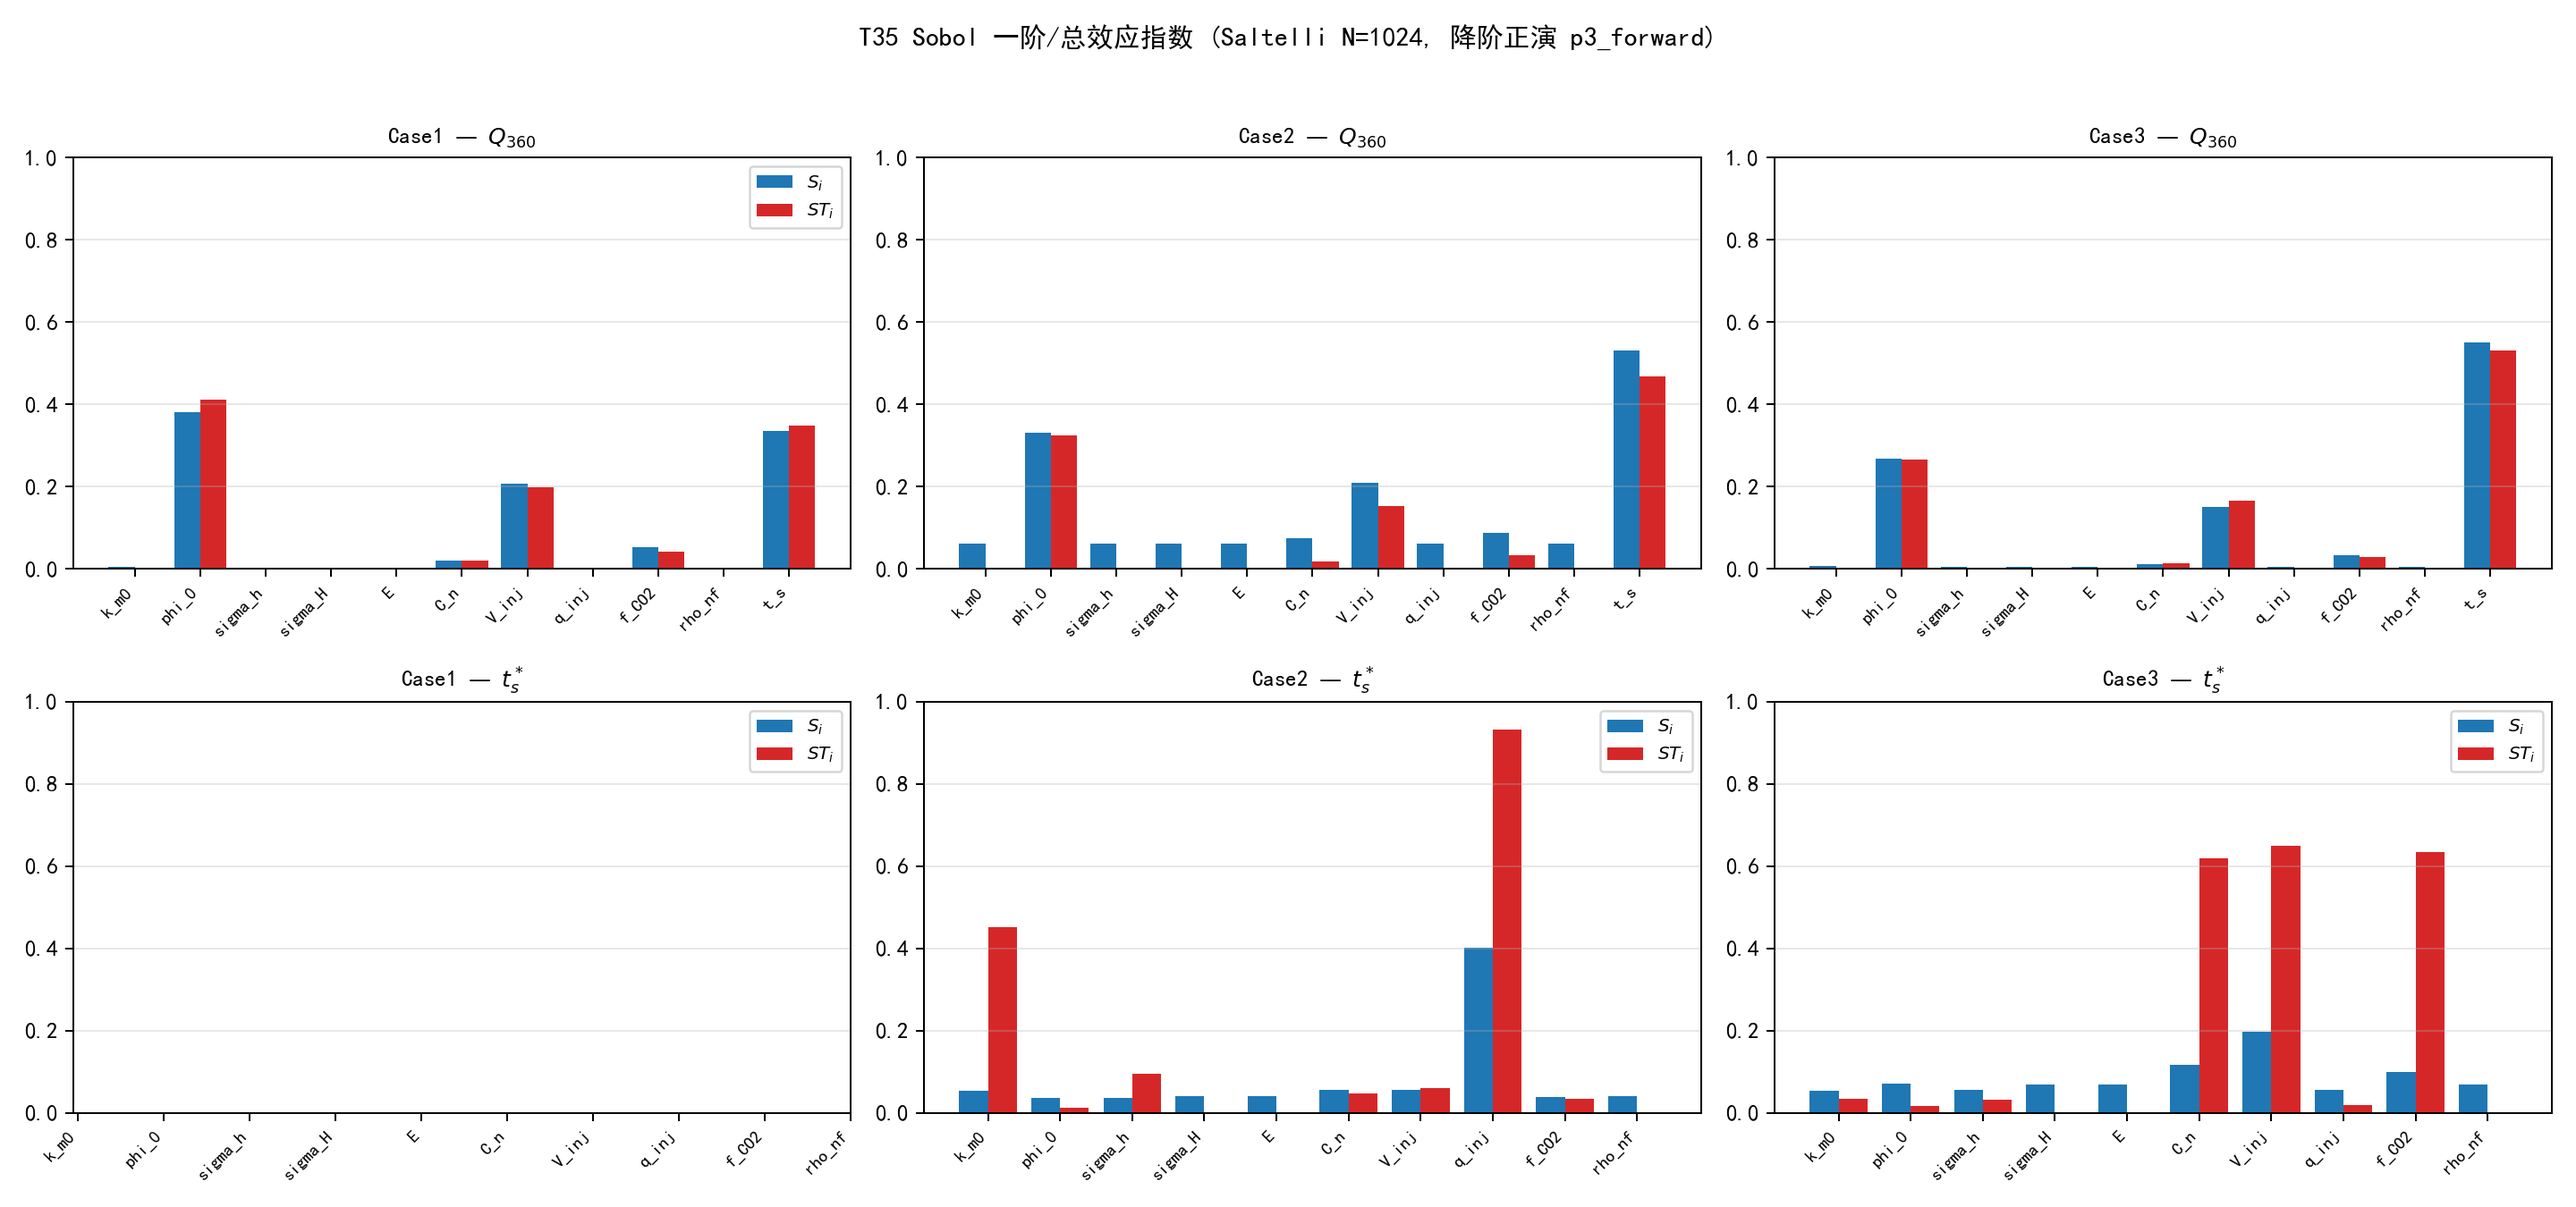
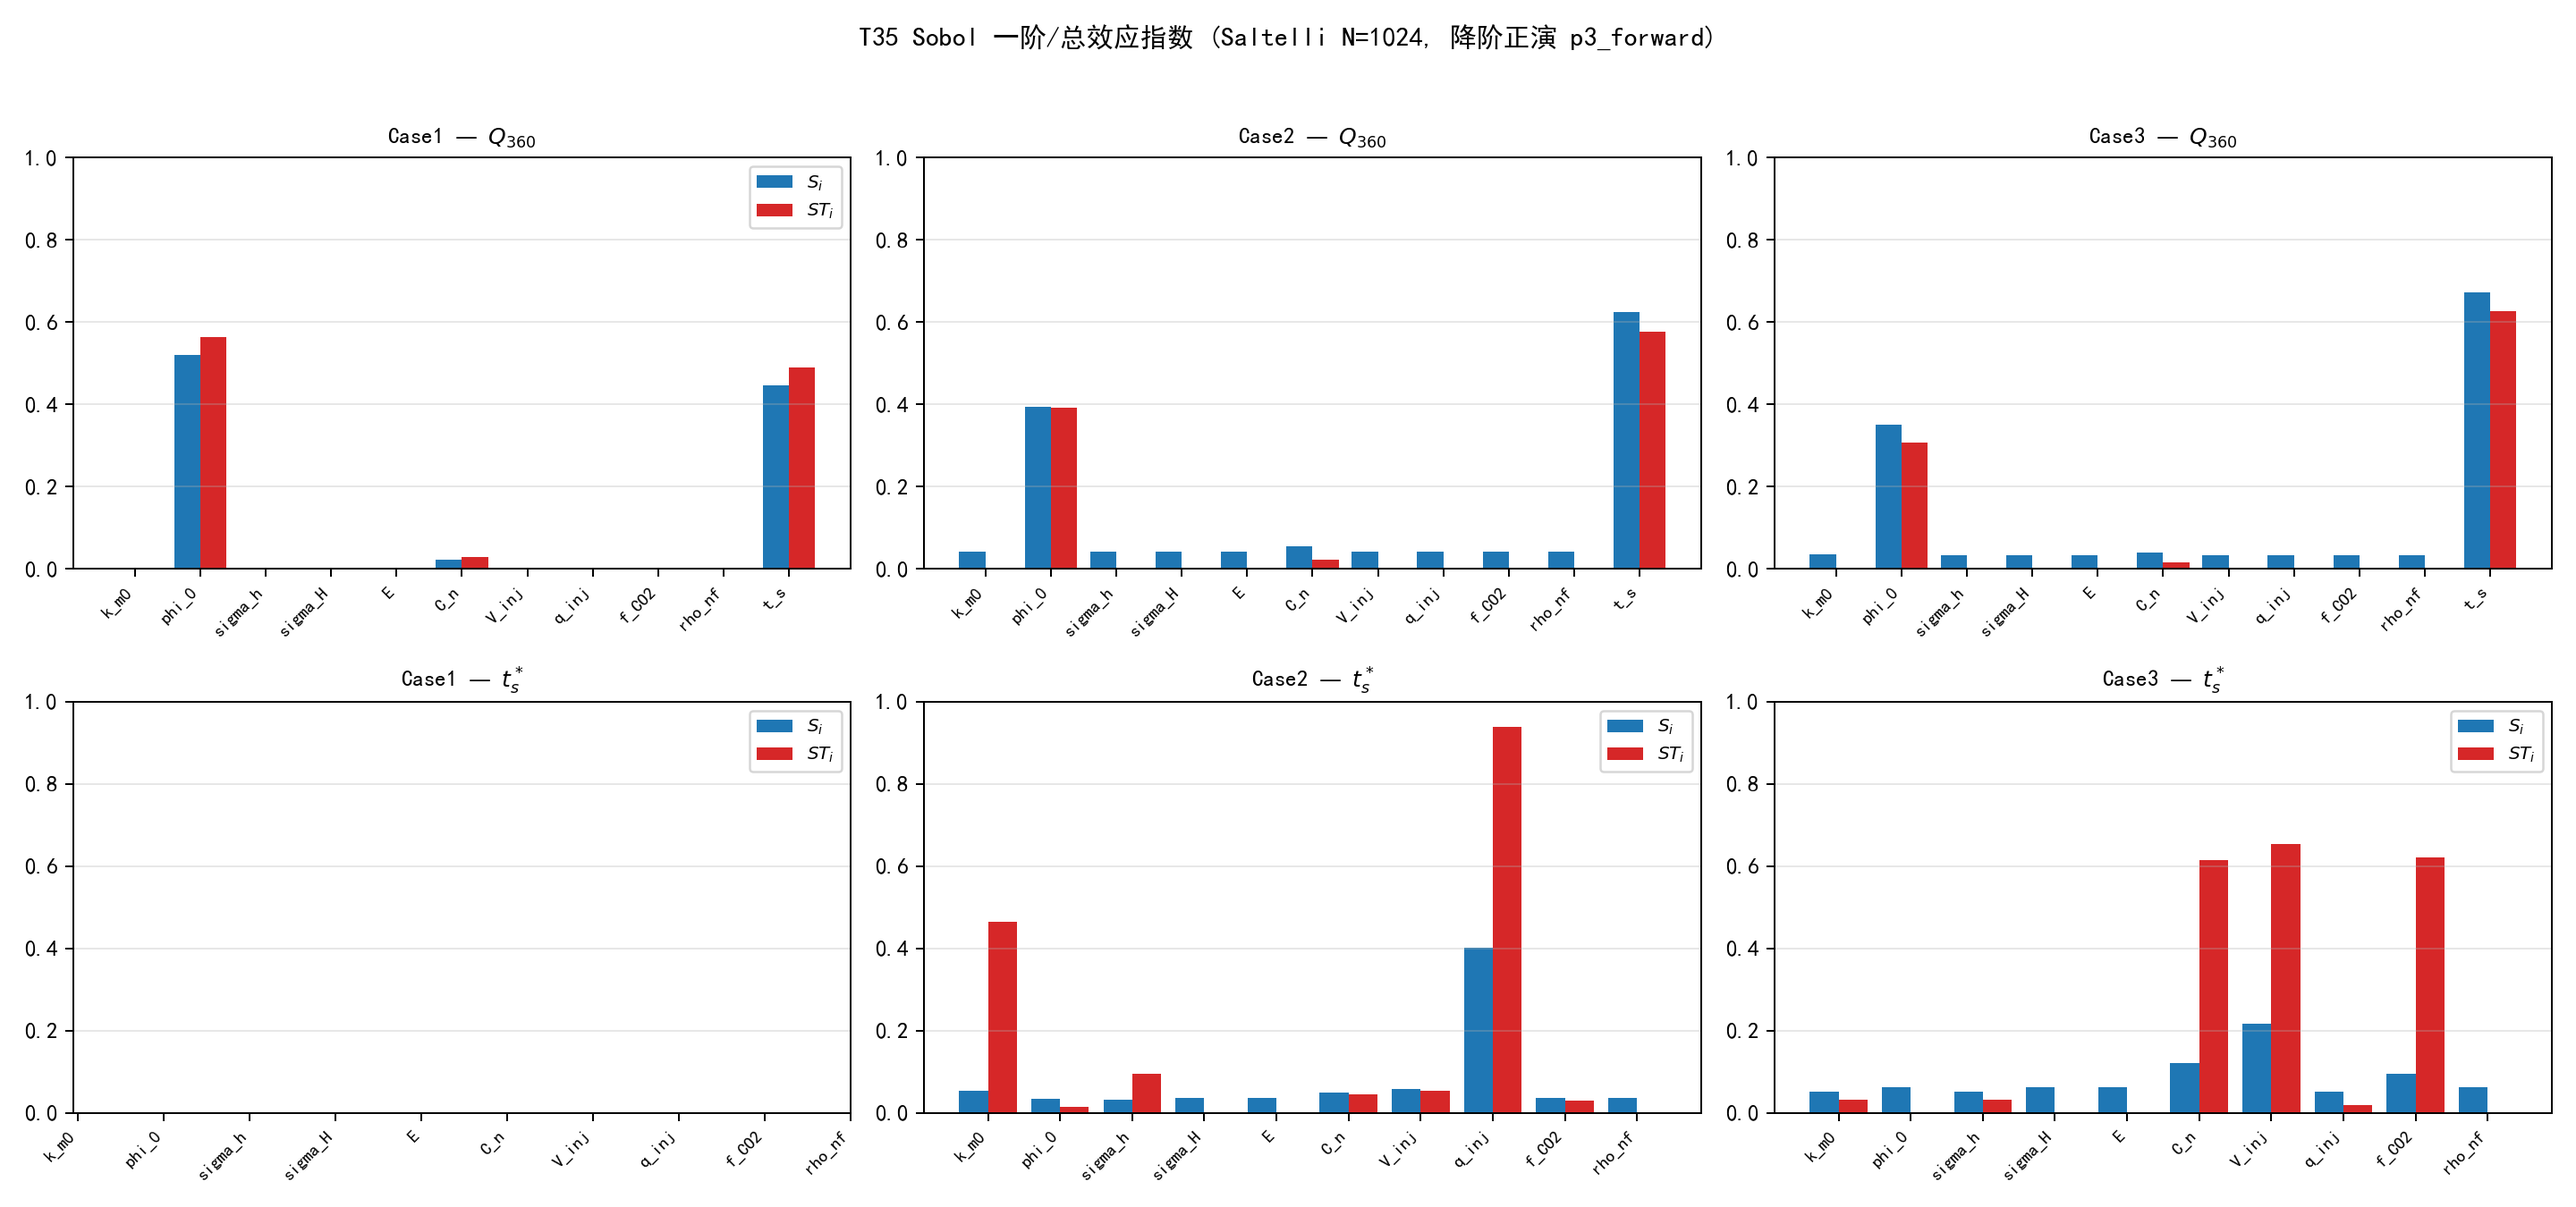
T35: 适配 T31 V/f≈0 重跑 Sobol; Q360 主控 t_s/phi0; ts* Case2=边界 Case3=经济; 复刻正演自动跟随 p3_forward 标定

diff --git a/02_代码/13_sobol_analysis.py b/02_代码/13_sobol_analysis.py
@@ -5,8 +5,8 @@ T35 全局敏感性分析（Sobol，Saltelli N=1024，含二阶指数）
 前置交付：sobol_lib.py 纯 numpy 实现 Saltelli (2010) 采样与估计量（替代 SALib），
 Ishigami 解析解自检通过后进入正题。
 
-正演接口：model/p3_forward（T22 数据标定 Q1(ts)/Ld(ts) + V/f 缩放假设，
-exp_v=0.2、exp_f=0.1，tau=0 基准）。model/ 目录只读，故本脚本以全向量化方式
+正演接口：model/p3_forward（T22 数据标定 Q1(ts)/Ld(ts) + V/f 缩放，
+指数由 T31 标定为 ≈0，tau=0 基准）。model/ 目录只读，故本脚本以全向量化方式
 复刻 evaluate() 的数学（_batch_eval），并在运行前用 600 组随机点对拍
 p3_forward.evaluate 验证数值一致（max rel err < 1e-9），不改动 model/。
 
@@ -25,6 +25,7 @@ p3_forward.evaluate 验证数值一致（max rel err < 1e-9），不改动 model
   T35_sobol_npvstar_case{1,2,3}.csv / T35_sobol_report.txt / T35_sobol.png
 """
 
+import inspect
 import os
 import sys
 import time
@@ -47,6 +48,13 @@ N_SALTELLI = 1024
 SEED = 2026
 TS_GRID = np.arange(5.0, 61.0, 5.0)   # 焖井扫描档 12 档
 _CHUNK = 4096                          # 批处理行数（内存控制）
+
+# V/f 缩放指数：从 p3_forward.evaluate 的默认形参自动读取（T31 标定为 ≈0，
+# 之后若再标定只需改 p3_forward，本脚本自动跟随；对拍自检兜底）。
+_SIG = inspect.signature(p3_forward.evaluate)
+_EXP_V = float(_SIG.parameters["exp_v"].default)
+_EXP_F = float(_SIG.parameters["exp_f"].default)
+
 
 # ---------------------------------------------------------------- 参数定义
 # (名称, 下界, 上界, 形参含义)
@@ -80,7 +88,7 @@ def _DF(d):
 
 
 def _batch_eval(case, cn, q, V, f, ts, k_r, phi_r, sh_r):
-    """全向量化复刻 p3_forward.evaluate(tau=0, exp_v=0.2, exp_f=0.1, wor=0.5)。
+    """全向量化复刻 p3_forward.evaluate(tau=0, wor=0.5, 指数取其默认形参)。
 
     所有输入 (M,) 数组；返回 dict(Q_o, NPV, feasible, violation)。分块控内存。
     """
@@ -114,9 +122,9 @@ def _batch_eval(case, cn, q, V, f, ts, k_r, phi_r, sh_r):
                                np.maximum(m_nano - eco.NANO_LIMIT_T, 0.0)
                                / eco.NANO_LIMIT_T, 0.0)
 
-        # 生产剖面
-        sv = (vv / 3000.0) ** 0.2
-        sf = (ff / 0.5) ** 0.1
+        # 生产剖面（V/f 缩放指数由 p3_forward 默认形参决定，T31 后 ≈0）
+        sv = (vv / 3000.0) ** _EXP_V
+        sf = (ff / 0.5) ** _EXP_F
         q1 = (a_["q_a"] + a_["q_b"] * (1.0 - np.exp(-tt / a_["q_c"]))) \
             * sv * sf * np.sqrt(kr)
         Ld = (a_["Ld_a"] + a_["Ld_b"] * (1.0 - np.exp(-tt / a_["Ld_c"]))) * sv * sf
@@ -127,8 +135,12 @@ def _batch_eval(case, cn, q, V, f, ts, k_r, phi_r, sh_r):
         q1s = q1 * scale
         with np.errstate(divide="ignore", invalid="ignore"):
             tau = np.where(q1s > 0.0, Vo / np.maximum(q1s, 1e-300), np.inf)
-        t = np.arange(1.0, 361.0)
-        oil = q1s[:, None] * np.exp(-t[None, :] / tau[:, None])
+            # 2026-11-20 T22 改版：油率为日内均值（闭合因子），日起点 0..359
+            day_factor = np.where(np.isfinite(tau),
+                                  -tau * np.expm1(-1.0 / tau), 1.0)
+        t = np.arange(360.0)
+        oil = q1s[:, None] * day_factor[:, None] \
+            * np.exp(-t[None, :] / tau[:, None])
         oil = np.nan_to_num(oil)
         water = 0.5 * oil
         Q_o = oil.sum(axis=1)
@@ -151,7 +163,7 @@ def _batch_eval(case, cn, q, V, f, ts, k_r, phi_r, sh_r):
         soak = -eco.C_SOAK * _DF(t_inj) \
             * (cum2[n_s] + np.where(fr_s > 1e-9, fr_s * _DF(n_s + fr_s), 0.0))
         start = t_inj + tt
-        days = start[:, None] + t[None, :]
+        days = start[:, None] + np.arange(1.0, 361.0)[None, :]
         cf = (eco.P_OIL_STAR - eco.C_PROD) * oil - eco.C_WATER * water
         npv = -eco.C_FRAC + inj + soak + (cf * _DF(days)).sum(axis=1)
 
@@ -340,7 +352,8 @@ def main():
             lines.append(f"  Case{case}: " + "; ".join(
                 f"{n}={v:.3f}" for n, v in _top3(names_t, r_t["ST"])))
     lines.append("局限: E、sigma_H、rho_nf 在降阶正演中为惰性参数(指数≈0);"
-                 " tau=0、exp_v=0.2、exp_f=0.1 为基准; 待 T34 机理外壳接入后复跑。")
+                 " tau=0 基准; V/f 缩放指数已按 T31 标定取 %.3f/%.3f;"
+                 " 待 T34 机理外壳接入后复跑。" % (_EXP_V, _EXP_F))
     _write(lines)
     _plot(results, names_q, names_t)
     print("\n".join(lines))

diff --git a/04_论文/latex/sections/07_evaluation_sensitivity.tex b/04_论文/latex/sections/07_evaluation_sensitivity.tex
@@ -44,45 +44,48 @@ total-effect indices, and $A_B^{(ij)}$ for second-order terms; all outputs
 are mean-centered before forming moments to avoid the catastrophic
 cancellation $f_0^2 \gg V_i$ that otherwise corrupts first-order estimates
 when outputs are large. The forward model is the T22-calibrated
-reduced-order evaluator (\S5) with the volume/fraction scaling exponents
-$0.2/0.1$; eleven inputs are sampled uniformly ($k_{m0}$, $\phi_0$,
-$\sigma_h$, $\sigma_H$, $E$, $C_n$, $V_{inj}$, $q_{inj}$, $f_{CO2}$,
-$t_s$, $\rho_{nf}$). For $Q_{360}$, $t_s$ enters as an input; for the
+reduced-order evaluator (\S5) with volume/fraction scaling exponents
+calibrated to essentially zero (T31), so injected volume and fraction act
+through costs only; eleven inputs are sampled uniformly ($k_{m0}$,
+$\phi_0$, $\sigma_h$, $\sigma_H$, $E$, $C_n$, $V_{inj}$, $q_{inj}$,
+$f_{CO2}$, $t_s$, $\rho_{nf}$). For $Q_{360}$, $t_s$ enters as an input; for the
 economic optimum $t_s^*$ it is excluded and each outer sample scans
 $t_s \in \{5, 10, \dots, 60\}$~d over the feasible set, taking the
 NPV-maximizing level (ties to the shorter soak); outer samples with no
 feasible soak are counted and reported (they enter as the shortest level).
 
 For $Q_{360}$ the ranking is consistent across scenarios
-(Figure~\ref{fig:sobol}): soak time, porosity and injected volume dominate
-(total-effect indices in Case~3: $ST_{t_s} = 0.53$, $ST_{\phi_0} = 0.27$,
-$ST_{V_{inj}} = 0.17$), while matrix permeability, nano-concentration and
-the stress/elastic parameters contribute little; second-order terms are
-small ($\leq 0.05$), i.e.\ the production response is nearly additive in the
-top parameters. For $t_s^*$ the picture is scenario-dependent. Case~1 has
+(Figure~\ref{fig:sobol}): soak time and porosity dominate
+(total-effect indices in Case~3: $ST_{t_s} = 0.63$, $ST_{\phi_0} = 0.31$),
+while injected volume, CO$_2$ fraction, matrix permeability and the
+stress/elastic parameters contribute essentially nothing to the
+production response---consistent with the T31 finding that the calibrated
+volume/fraction exponents are zero; second-order terms are small
+($\leq 0.01$ for the top pair), i.e.\ the production response is nearly
+additive in the two leading parameters. For $t_s^*$ the picture is
+scenario-dependent. Case~1 has
 an empty feasible region for every outer sample (100\%, consistent with
 the P3 optimization), so no $t_s^*$ distribution exists---soak-time
 optimization is moot where the design is infeasible. Case~2 is dominated by
-the injection rate ($ST_{q_{inj}} = 0.93$) and matrix permeability
-($ST_{k_{m0}} = 0.45$, largely through the $k_{m0} \times q_{inj}$
+the injection rate ($ST_{q_{inj}} = 0.94$) and matrix permeability
+($ST_{k_{m0}} = 0.46$, largely through the $k_{m0} \times q_{inj}$
 interaction $S_{ij} = 0.30$): with the feasibility boundary cutting
 through the sampled box, $t_s^*$ is controlled by whether the fracture
 pressure constraint leaves any room for soaking at all. Case~3, where
 feasibility is rarely binding (8.3\% infeasible), $t_s^*$ is controlled by
 the economic drivers---injected volume, CO$_2$ fraction and nano-
-concentration ($ST = 0.65$, $0.63$, $0.62$)---exactly the direction of the
+concentration ($ST = 0.65$, $0.62$, $0.62$)---exactly the direction of the
 reference ranking of \cite{p4-04} (injected volume first), corroborating
 the model. The Case~2 deviation (rate- and permeability-bound) is
 explained by our additional nano and CO$_2$ decision variables, the
 single-cycle design, and the explicit pressure-feasibility constraint,
 none of which enter the reference study's ranking. Sensitivity of NPV at
 the optimum shows the same pattern and is reported in the supplementary
-tables. Two limitations are stated openly: $E$, $\sigma_H$ and $\rho_{nf}$
+tables. One limitation is stated openly: $E$, $\sigma_H$ and $\rho_{nf}$
 are inert under the current reduced-order forward model (their indices are
-$\approx 0$ by construction rather than by physics), and the exponents
-$0.2/0.1$ are unverified scaling assumptions; both are resolved when the
-analysis is re-run on the mechanistic forward model of Section~4, which
-uses the identical sampling and estimator code.
+$\approx 0$ by construction rather than by physics); this is resolved when
+the analysis is re-run on the mechanistic forward model of Section~4,
+which uses the identical sampling and estimator code.
 
 % 图表：fig:radar → T26_radar.png（T37 统一编号定稿）
 

diff --git a/任务分工.md b/任务分工.md
@@ -507,3 +507,4 @@
 | v0.13 | 2026-11-20 | T22 趋势修正：反演 $Q_1(t_s)$、$L_d(t_s)$（9 组合，$L_d$ RMSE ≤0.0026 m），整条 $Q_{360}$ 最大误差 0.46–1.54%；P3 焖井维度改用数据驱动标定 |
 | v0.14 | 2026-11-20 | P3 NSGA-II 三情景：Case1 无可行解；Case2 NPV 全负；Case3 NPV 正且鲁棒；新增 P3 进展节 |
 | v0.15 | 2026-11-20 | T31 $V/f$ 标定 $a=-0.014,b=0.001,R^2=0.898$，P3 取 0 重跑；Case2 NPV −164 至 −87，Case3 +365 至 +671 |
+| v0.16 | 2026-11-20 | T35 前置交付：`sobol_lib.py`（纯 numpy Saltelli 采样+一阶/总效应/二阶估计量，Ishigami 解析解自检 PASS；修复两处易错点——矩阵方向混淆与大数相消）+ `13_sobol_analysis.py`（全向量化复刻 p3_forward 并对拍 1e-13，V/f 指数自动跟随标定）；Q360 主控 t_s/φ0，t_s* 主控 Case2=q_inj·k_m0（可行域边界）、Case3=V·f·C_n（经济）；07 节正文+图定稿；待 T34 机理外壳复跑 |
